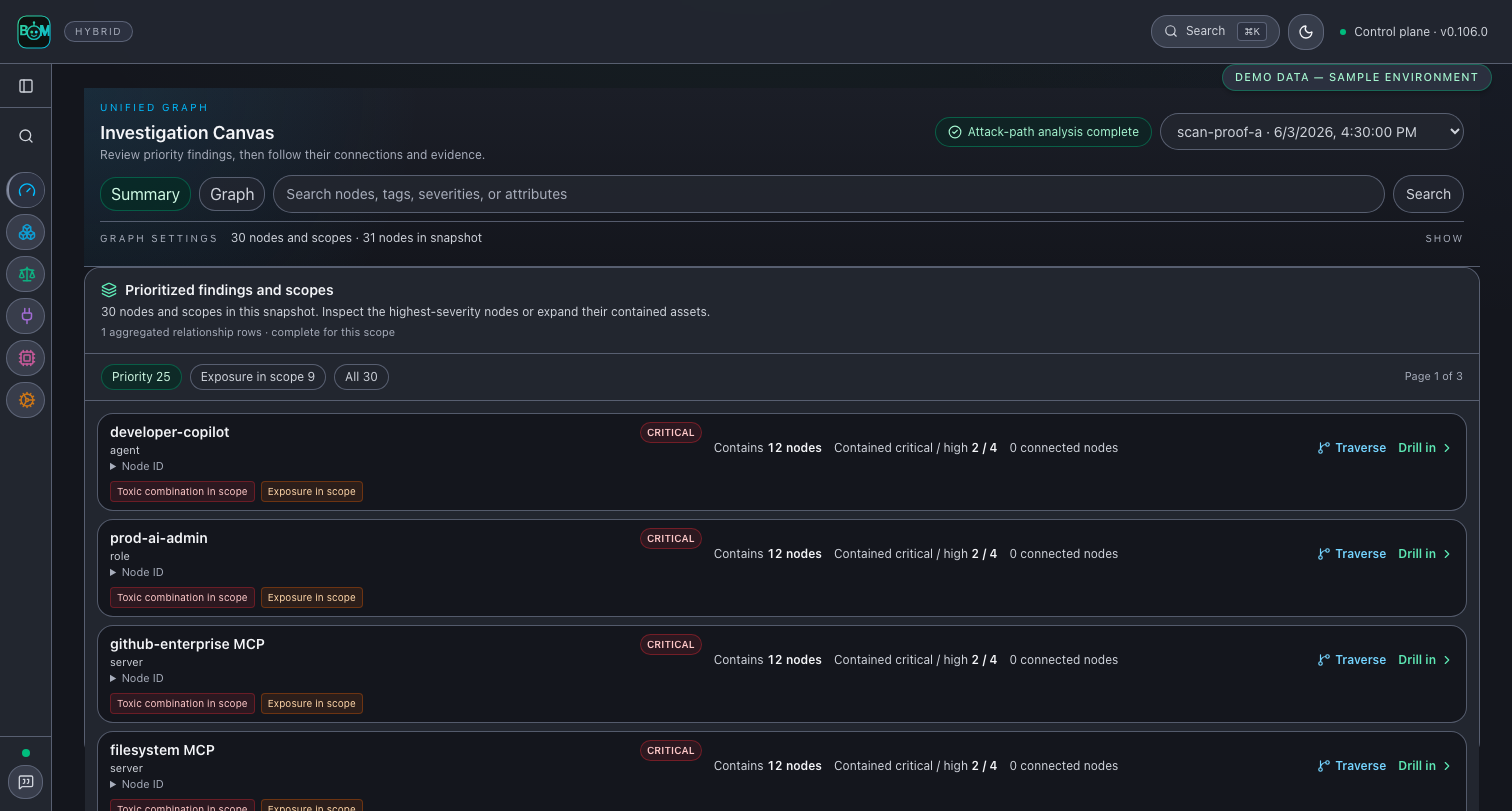
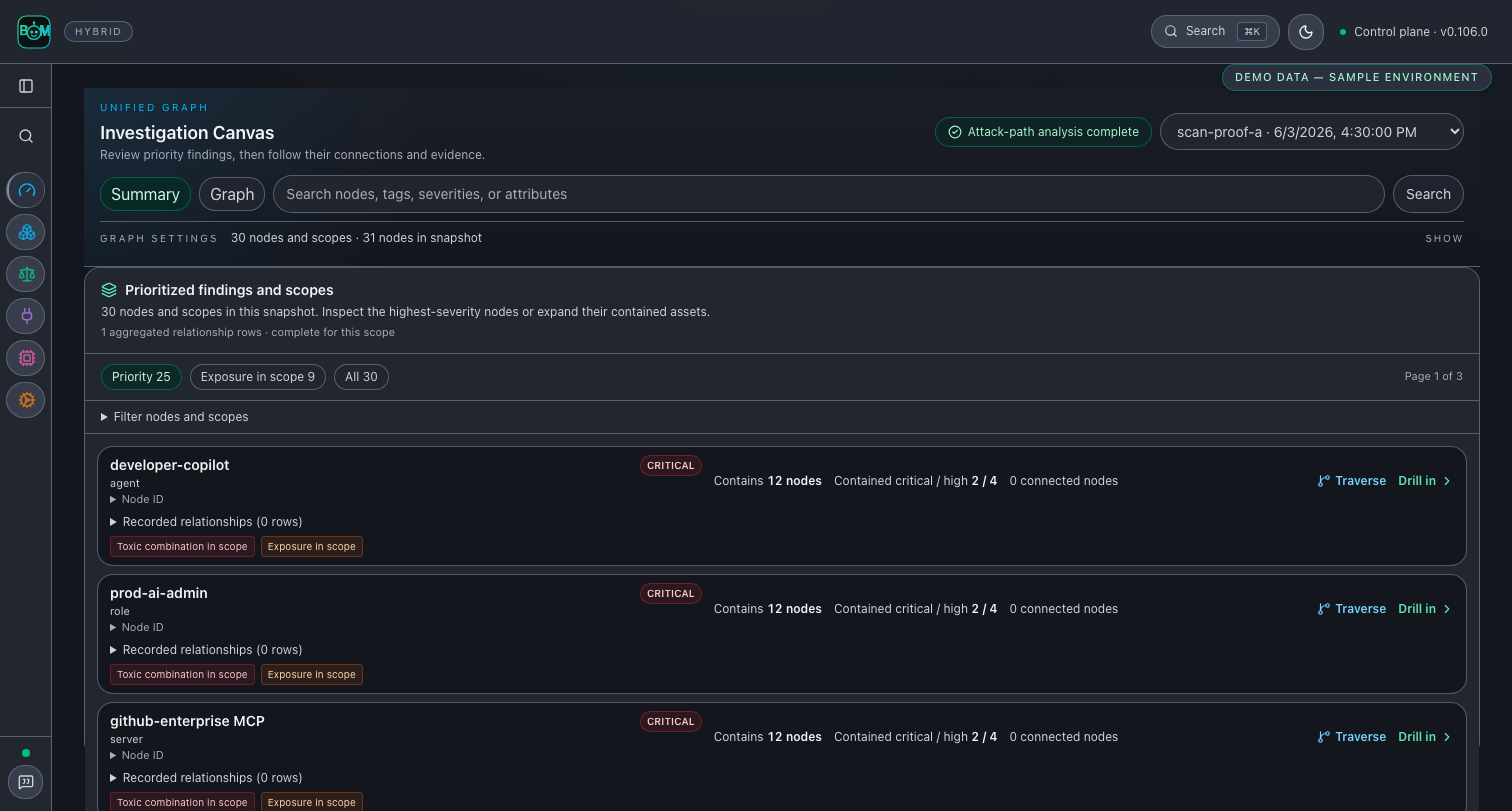
feat(graph): filter environment scopes and inspect relationships (#5365)
## Summary
- Add collapsible asset-type and name/ID/context filters to the existing
scope summary, with counts explicitly limited to returned scope nodes.
- Add bounded, expandable relationship details preserving source, target
and relationship types, without implying runtime execution or
authorization.
- Index incident relationships once per response and retain twelve-card
pagination; keep mobile search usable at narrow widths.

## Verification
- `npm run verify:toolchain`
- `npm run typecheck`
- Targeted ESLint on all three affected files
- `npm test -- --run tests/graph-rollup-decision-surface.test.tsx
tests/graph-rollup-view.test.ts tests/graph-rollup-default.test.ts`: 29
passed
- Playwright `environment scope filter` selection: five checks passed,
covering light/dark themes, 390px/1440px widths and a 3,000-scope
fixture; screenshots reviewed
- `npm run build` and `npm run bundle:check`: passed, 3992.4 KiB total
client JS against 4000 KiB budget
- `git diff --check`

- `CAPTURE_PORT=13250 npm run capture:product-proof`: regenerated from
clean committed source f052920df
- `make preflight`: passed after proof refresh
- Endpoint navigation regression covers duplicate display labels and
absent endpoint details.

## Notes
- Local mocked-API browser fixture: ten filter interactions over 3,000
returned scopes, maximum 21.9ms including automation. This excludes
production API latency and is not an estate-scale benchmark.
[…]

diff --git a/ui/components/graph-rollup-decision-surface.tsx b/ui/components/graph-rollup-decision-surface.tsx
@@ -88,21 +88,45 @@ export function GraphRollupDecisionSurface({
 }) {
   const [filter, setFilter] = useState<RiskFilter>("priority");
   const [page, setPage] = useState(0);
+  const [query, setQuery] = useState("");
+  const [entityType, setEntityType] = useState("");
+  const types = useMemo(() => {
+    const counts = new Map<string, number>();
+    for (const item of items) counts.set(item.entity_type, (counts.get(item.entity_type) ?? 0) + 1);
+    return [...counts].sort(([a], [b]) => a.localeCompare(b));
+  }, [items]);
+  const nodesById = useMemo(() => new Map(items.map((item) => [item.id, item])), [items]);
+  const incident = useMemo(() => {
+    const index = new Map<string, GraphRollupEdge[]>();
+    for (const edge of edges) {
+      for (const id of new Set([edge.source, edge.target])) {
+        const rows = index.get(id) ?? [];
+        rows.push(edge);
+        index.set(id, rows);
+      }
+    }
+    return index;
+  }, [edges]);
   const priorityCount = useMemo(() => items.filter(isPriority).length, [items]);
   const exposedCount = useMemo(
     () => items.filter((item) => item.aggregate.internet_exposed).length,
     [items],
   );
   const filtered = useMemo(() => {
-    const ranked = [...items].sort((a, b) =>
+    const search = query.trim().toLowerCase();
+    const ranked = items.filter((item) =>
+      (!entityType || item.entity_type === entityType) &&
+      (!search || [item.label, item.id, ...Object.values(item.context ?? {})]
+        .some((value) => String(value).toLowerCase().includes(search))),
+    ).sort((a, b) =>
       (SEVERITY_RANK[effectiveSeverity(b)] ?? 0) - (SEVERITY_RANK[effectiveSeverity(a)] ?? 0));
     if (filter === "all") return ranked;
     if (filter === "exposed") {
       return ranked.filter((item) => item.aggregate.internet_exposed);
     }
     const priority = ranked.filter(isPriority);
-    return priority.length > 0 ? priority : ranked;
-  }, [filter, items]);
+    return priorityCount > 0 ? priority : ranked;
+  }, [filter, items, query, entityType, priorityCount]);
   const pages = Math.max(1, Math.ceil(filtered.length / PAGE_SIZE));
   const visible = filtered.slice(page * PAGE_SIZE, (page + 1) * PAGE_SIZE);
   const compactLayout = visible.length <= 3;
@@ -120,7 +144,7 @@ export function GraphRollupDecisionSurface({
 
   useEffect(() => {
     setPage(0);
-  }, [filter, items]);
+  }, [filter, items, query, entityType]);
 
   return (
     <section
@@ -175,12 +199,30 @@ export function GraphRollupDecisionSurface({
         </span>
       </div>
 
+      <details className="border-b border-outline px-4 py-2 text-xs">
+        <summary className="cursor-pointer text-ink-secondary">Filter nodes and scopes{query || entityType ? " · active" : ""}</summary>
+        <div className="mt-2 flex flex-wrap gap-3">
+          <label className="flex min-w-0 basis-full flex-col gap-1 sm:flex-1 sm:basis-0">Search this scope
+            <input value={query} onChange={(event) => setQuery(event.target.value)} placeholder="Name, ID or environment" className="min-w-0 rounded border border-outline bg-background p-2 text-foreground" />
+          </label>
+          <label className="flex flex-col gap-1">Asset type
+            <select value={entityType} onChange={(event) => setEntityType(event.target.value)} className="rounded border border-outline bg-background p-2 text-foreground">
+              <option value="">All types ({items.length})</option>
+              {types.map(([type, count]) => <option key={type} value={type}>{type.replaceAll("_", " ")} ({count})</option>)}
+            </select>
+          </label>
+          <button type="button" onClick={() => { setQuery(""); setEntityType(""); }} className="graph-chip-neutral self-end">Clear filters</button>
+        </div>
+        <p className="mt-2 text-ink-tertiary">Type counts cover returned nodes at this level, before filters.</p>
+      </details>
+      {filtered.length === 0 && <p role="status" className="p-4 text-sm text-ink-secondary">No nodes match these filters in the returned scope.</p>}
       <div
         data-testid="graph-rollup-card-grid"
         className={`grid max-h-[min(60vh,34rem)] gap-2 overflow-y-auto p-3 ${cardGridClass}`}
       >
         {visible.map((item) => {
-          const relation = relationEvidence(item.id, edges);
+          const itemEdges = incident.get(item.id) ?? [];
+          const relation = relationEvidence(item.id, itemEdges);
           const severity = effectiveSeverity(item);
           const critical = item.aggregate.severity_counts.critical ?? 0;
           const high = item.aggregate.severity_counts.high ?? 0;
@@ -242,6 +284,25 @@ export function GraphRollupDecisionSurface({
                   </button>
                 )}
               </div>
+              <details className="col-span-2 text-xs text-ink-secondary md:col-span-3">
+                <summary className="cursor-pointer">Recorded relationships ({itemEdges.length} {itemEdges.length === 1 ? "row" : "rows"})</summary>
+                <p className="my-2 text-ink-tertiary">Returned relationships only. These do not establish runtime execution or authorized access.</p>
+                <ul className="max-h-48 space-y-2 overflow-y-auto">
+                  {itemEdges.slice(0, 12).map((edge, index) => <li key={`${edge.source}:${edge.target}:${index}`} className="break-words [overflow-wrap:anywhere]">
+                    {[edge.source, edge.target].map((id, endpoint) => {
+                      const node = nodesById.get(id);
+                      return <span key={`${endpoint}:${id}`}>
+                        {endpoint === 1 && <span aria-label="to"> → </span>}
+                        {node ? <button type="button" onClick={() => onInvestigate(node)} aria-label={`Inspect relationship endpoint ${node.label} (${id})`} title={id} className="text-sky-700 underline underline-offset-2 dark:text-sky-300">{node.label}</button> : <span title="Endpoint details are outside the returned scope">{id}</span>}
+                      </span>;
+                    })}
+                    <span className="block text-ink-tertiary">{edge.relationships.map((kind) => kind.replaceAll("_", " ")).join(", ")} · {edge.count} underlying relationships</span>
+                  </li>)}
+                </ul>
+                {itemEdges.length > 12 && <p className="mt-2">Showing 12 of {itemEdges.length} rows.</p>}
+                {itemEdges.length > 12 && <button type="button" onClick={() => onInvestigate(item)} className="mt-2 text-sky-700 underline dark:text-sky-300">Inspect connections for {item.label}</button>}
+                {itemEdges.length === 0 && <p>No relationship rows returned for this node. Coverage may be incomplete.</p>}
+              </details>
               {(item.aggregate.toxic_combo || item.aggregate.internet_exposed) && <div className="col-span-2 flex flex-wrap gap-1.5 text-[10px] md:col-span-3">
                 {item.aggregate.toxic_combo ? (
                   <span className="rounded border border-red-500/30 bg-red-500/10 px-1.5 py-0.5 text-red-700 dark:text-red-200">{item.has_children ? "Toxic combination in scope" : "Toxic combination"}</span>

diff --git a/ui/tests/graph-rollup-decision-surface.test.tsx b/ui/tests/graph-rollup-decision-surface.test.tsx
@@ -32,6 +32,46 @@ function item(
 }
 
 describe("GraphRollupDecisionSurface", () => {
+  it("combines type and context search without inventing matches", () => {
+    render(<GraphRollupDecisionSurface items={[
+      item("prod-agent", { entity_type: "agent", context: { environment: "production" } }),
+      item("dev-agent", { entity_type: "agent", context: { environment: "development" } }),
+      item("prod-server", { entity_type: "server", context: { environment: "production" } }),
+    ]} edges={[]} onDrill={vi.fn()} onInvestigate={vi.fn()} />);
+    fireEvent.click(screen.getByText("Filter nodes and scopes"));
+    fireEvent.change(screen.getByLabelText("Asset type"), { target: { value: "agent" } });
+    fireEvent.change(screen.getByLabelText("Search this scope"), { target: { value: "production" } });
+    expect(screen.getByText("Scope prod-agent")).toBeInTheDocument();
+    expect(screen.queryByText("Scope dev-agent")).not.toBeInTheDocument();
+    expect(screen.queryByText("Scope prod-server")).not.toBeInTheDocument();
+    fireEvent.change(screen.getByLabelText("Search this scope"), { target: { value: "absent" } });
+    expect(screen.getByRole("status")).toHaveTextContent("No nodes match");
+    fireEvent.click(screen.getByRole("button", { name: "Clear filters" }));
+    expect(screen.getByText("Scope dev-agent")).toBeInTheDocument();
+  });
+
+  it("bounds relationship details and preserves direction and type", () => {
+    render(<GraphRollupDecisionSurface items={[item("root"), item("neighbor")]} edges={
+      Array.from({ length: 15 }, () => ({ source: "neighbor", target: "root", count: 2, relationships: ["uses"] }))
+    } onDrill={vi.fn()} onInvestigate={vi.fn()} />);
+    expect(screen.getAllByRole("button", { name: "Inspect relationship endpoint Scope neighbor (neighbor)" })).toHaveLength(24);
+    expect(screen.getAllByText("Showing 12 of 15 rows.")).toHaveLength(2);
+    expect(screen.getAllByText(/do not establish runtime execution/)).toHaveLength(2);
+  });
+
+  it("investigates the exact endpoint when labels collide and keeps unknown endpoints literal", () => {
+    const onInvestigate = vi.fn();
+    const selected = item("prod", { label: "Shared name" });
+    render(<GraphRollupDecisionSurface items={[selected, item("dev", { label: "Shared name" })]}
+      edges={[{ source: "prod", target: "external-id", count: 1, relationships: ["stores"] }]}
+      onDrill={vi.fn()} onInvestigate={onInvestigate} />);
+    fireEvent.click(screen.getByRole("button", { name: "Inspect relationship endpoint Shared name (prod)" }));
+    expect(onInvestigate).toHaveBeenCalledWith(selected);
+    expect(screen.getByText("external-id")).toBeInTheDocument();
+    expect(screen.queryByRole("button", { name: /external-id/ })).not.toBeInTheDocument();
+    expect(screen.getByText(/Coverage may be incomplete/)).toBeInTheDocument();
+  });
+
   it("keeps an explicit return to summary available from the graph", () => {
     const onSummary = vi.fn();
     const onGraph = vi.fn();

diff --git a/ui/e2e/security-graph-cockpit.spec.ts b/ui/e2e/security-graph-cockpit.spec.ts
@@ -1533,3 +1533,43 @@ for (const proof of [{ theme: "light", width: 1440 }, { theme: "dark", width: 14
     await expect(page.getByText(/not.*scan|scan.*not/i).first()).toBeVisible();
   });
 }
+
+for (const theme of ["light", "dark"] as const) {
+  for (const width of [390, 1440]) {
+    test(`environment scope filters and evidence remain readable ${theme} ${width}`, async ({ page }, testInfo) => {
+      await page.setViewportSize({ width, height: 900 });
+      await page.addInitScript((value) => localStorage.setItem("agent-bom-theme", value), theme);
+      await routeCockpit(page, 200, { rollupItemCount: 30 });
+      await page.goto(`/graph?scan=${scanId}&rollup=1`);
+      const surface = page.getByTestId("graph-rollup-decision-surface");
+      await expect(surface).toBeVisible();
+      await surface.getByText("Filter nodes and scopes", { exact: true }).click();
+      await surface.getByRole("button", { name: "All 30", exact: true }).click();
+      await surface.getByLabel("Search this scope").fill("production");
+      await expect(surface.locator("article")).toHaveCount(1);
+      await surface.getByText("Recorded relationships (1 row)", { exact: true }).click();
+      await expect(surface.getByText(/do not establish runtime execution/)).toBeVisible();
+      expect(await surface.evaluate((element) => element.scrollWidth <= element.clientWidth + 1)).toBe(true);
+      await page.screenshot({ path: testInfo.outputPath(`environment-focus-${theme}-${width}.png`), fullPage: true });
+    });
+  }
+}
+
+test("environment scope filtering stays bounded with 3000 returned scopes", async ({ page }, testInfo) => {
+  await routeCockpit(page, 3000, { rollupItemCount: 3000 });
+  await page.goto(`/graph?scan=${scanId}&rollup=1`);
+  const surface = page.getByTestId("graph-rollup-decision-surface");
+  await expect(surface).toBeVisible();
+  await surface.getByRole("button", { name: "All 3000", exact: true }).click();
+  await expect(surface.locator("article")).toHaveCount(12);
+  await surface.getByText("Filter nodes and scopes", { exact: true }).click();
+  const durations: number[] = [];
+  for (let index = 0; index < 10; index += 1) {
+    const start = performance.now();
+    await surface.getByLabel("Search this scope").fill(index % 2 ? "production" : "development");
+    await expect(surface.locator("article")).toHaveCount(1);
+    durations.push(performance.now() - start);
+  }
+  console.info("Scope filter fixture max milliseconds:", Math.max(...durations).toFixed(1));
+  await testInfo.attach("filter-timing-fixture", { body: JSON.stringify({ scopes: 3000, samples_ms: durations, max_ms: Math.max(...durations), note: "Local browser automation with mocked API; excludes production backend latency." }), contentType: "application/json" });
+});
